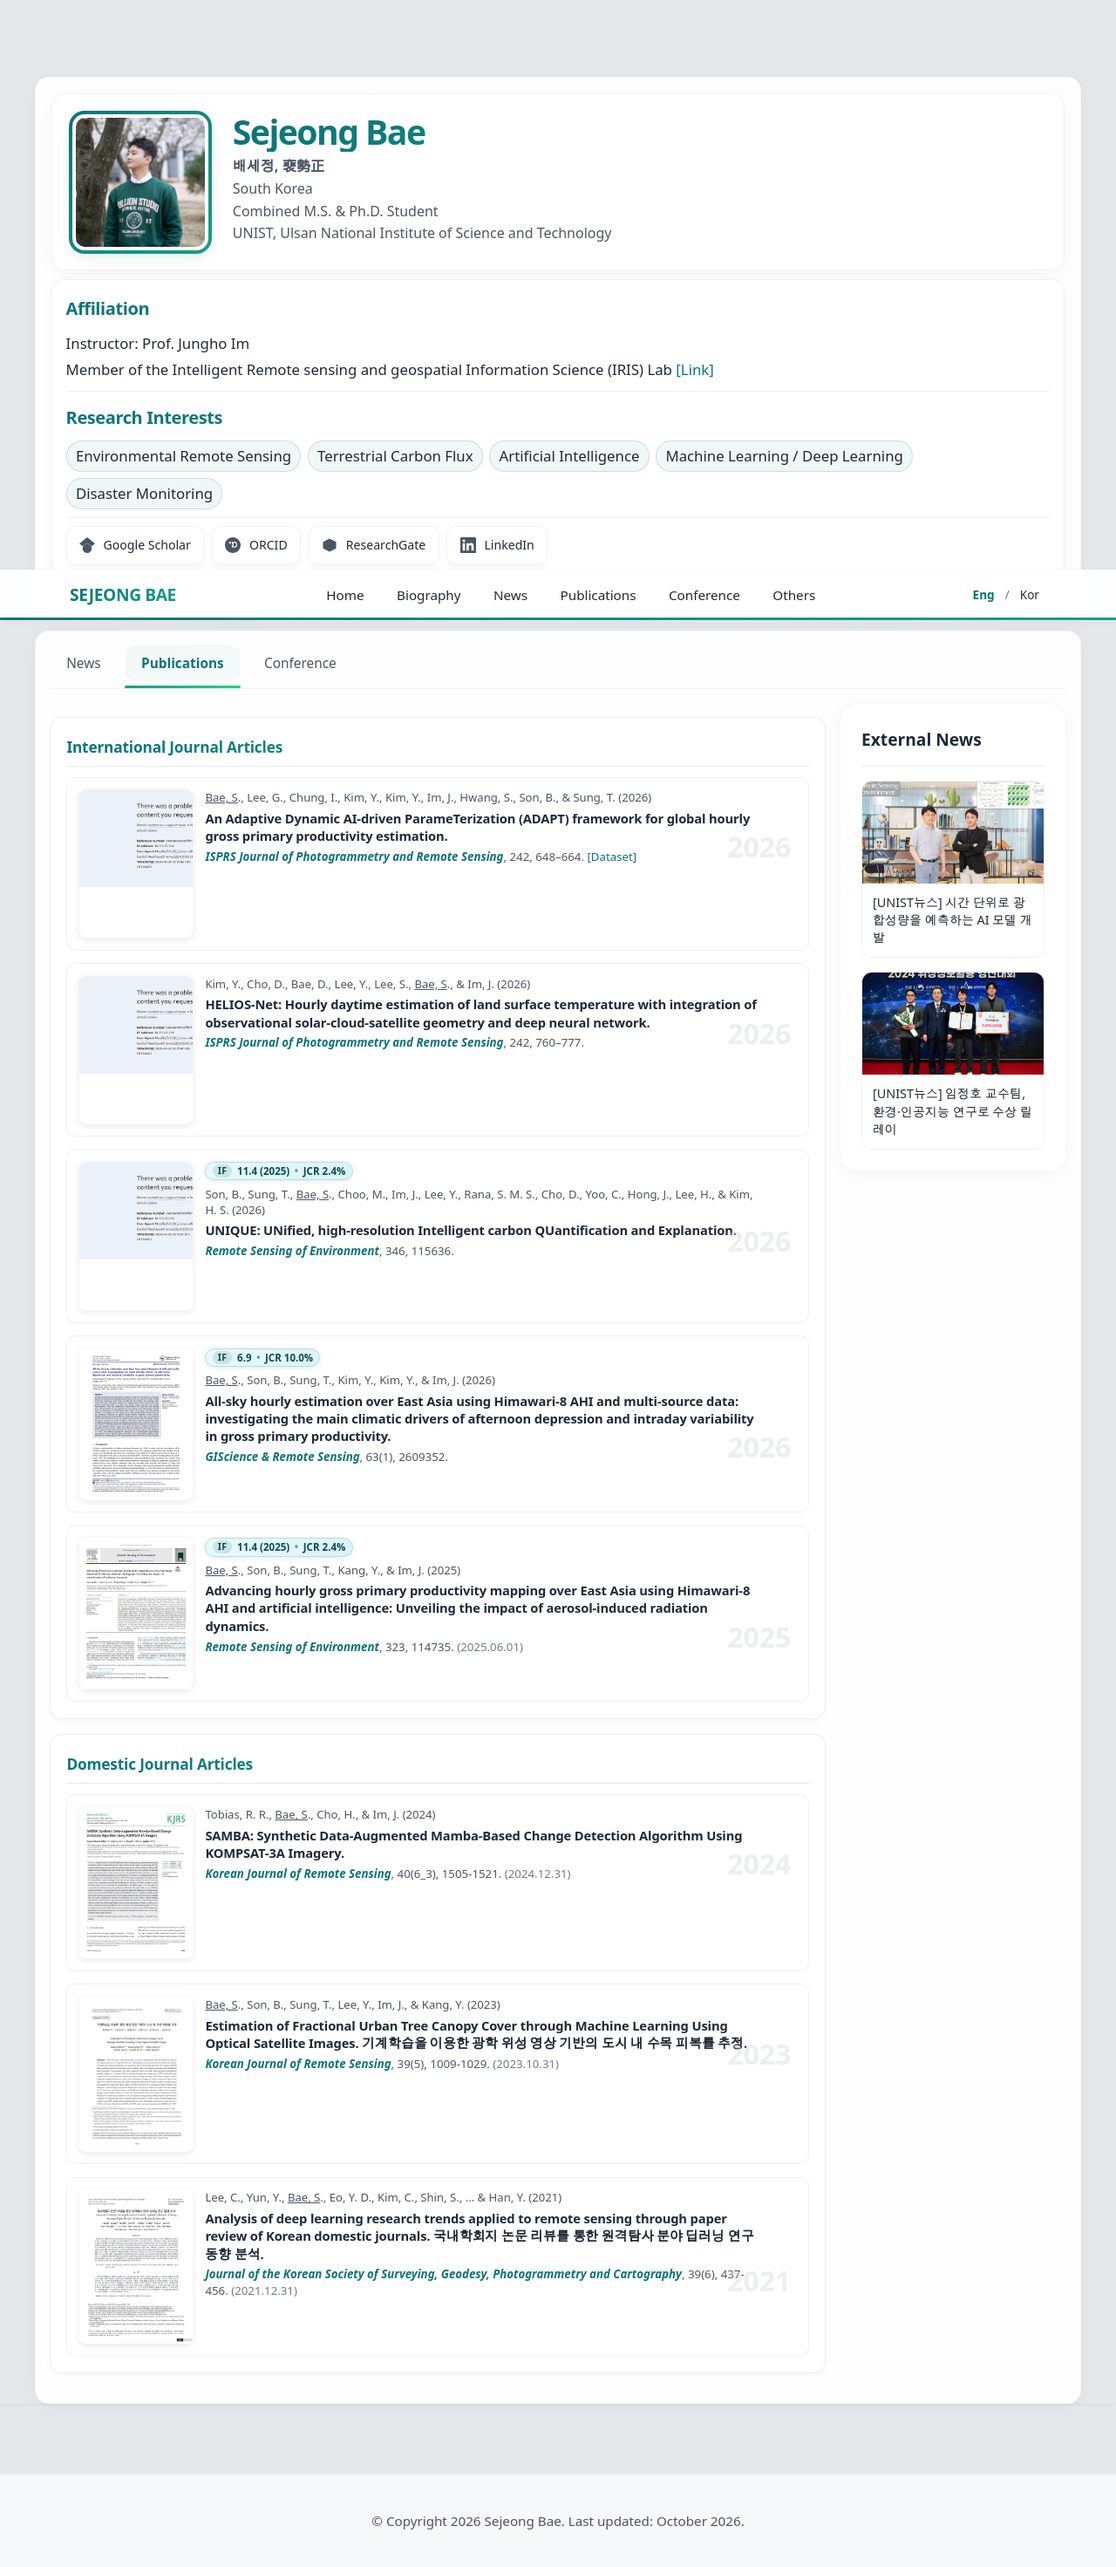
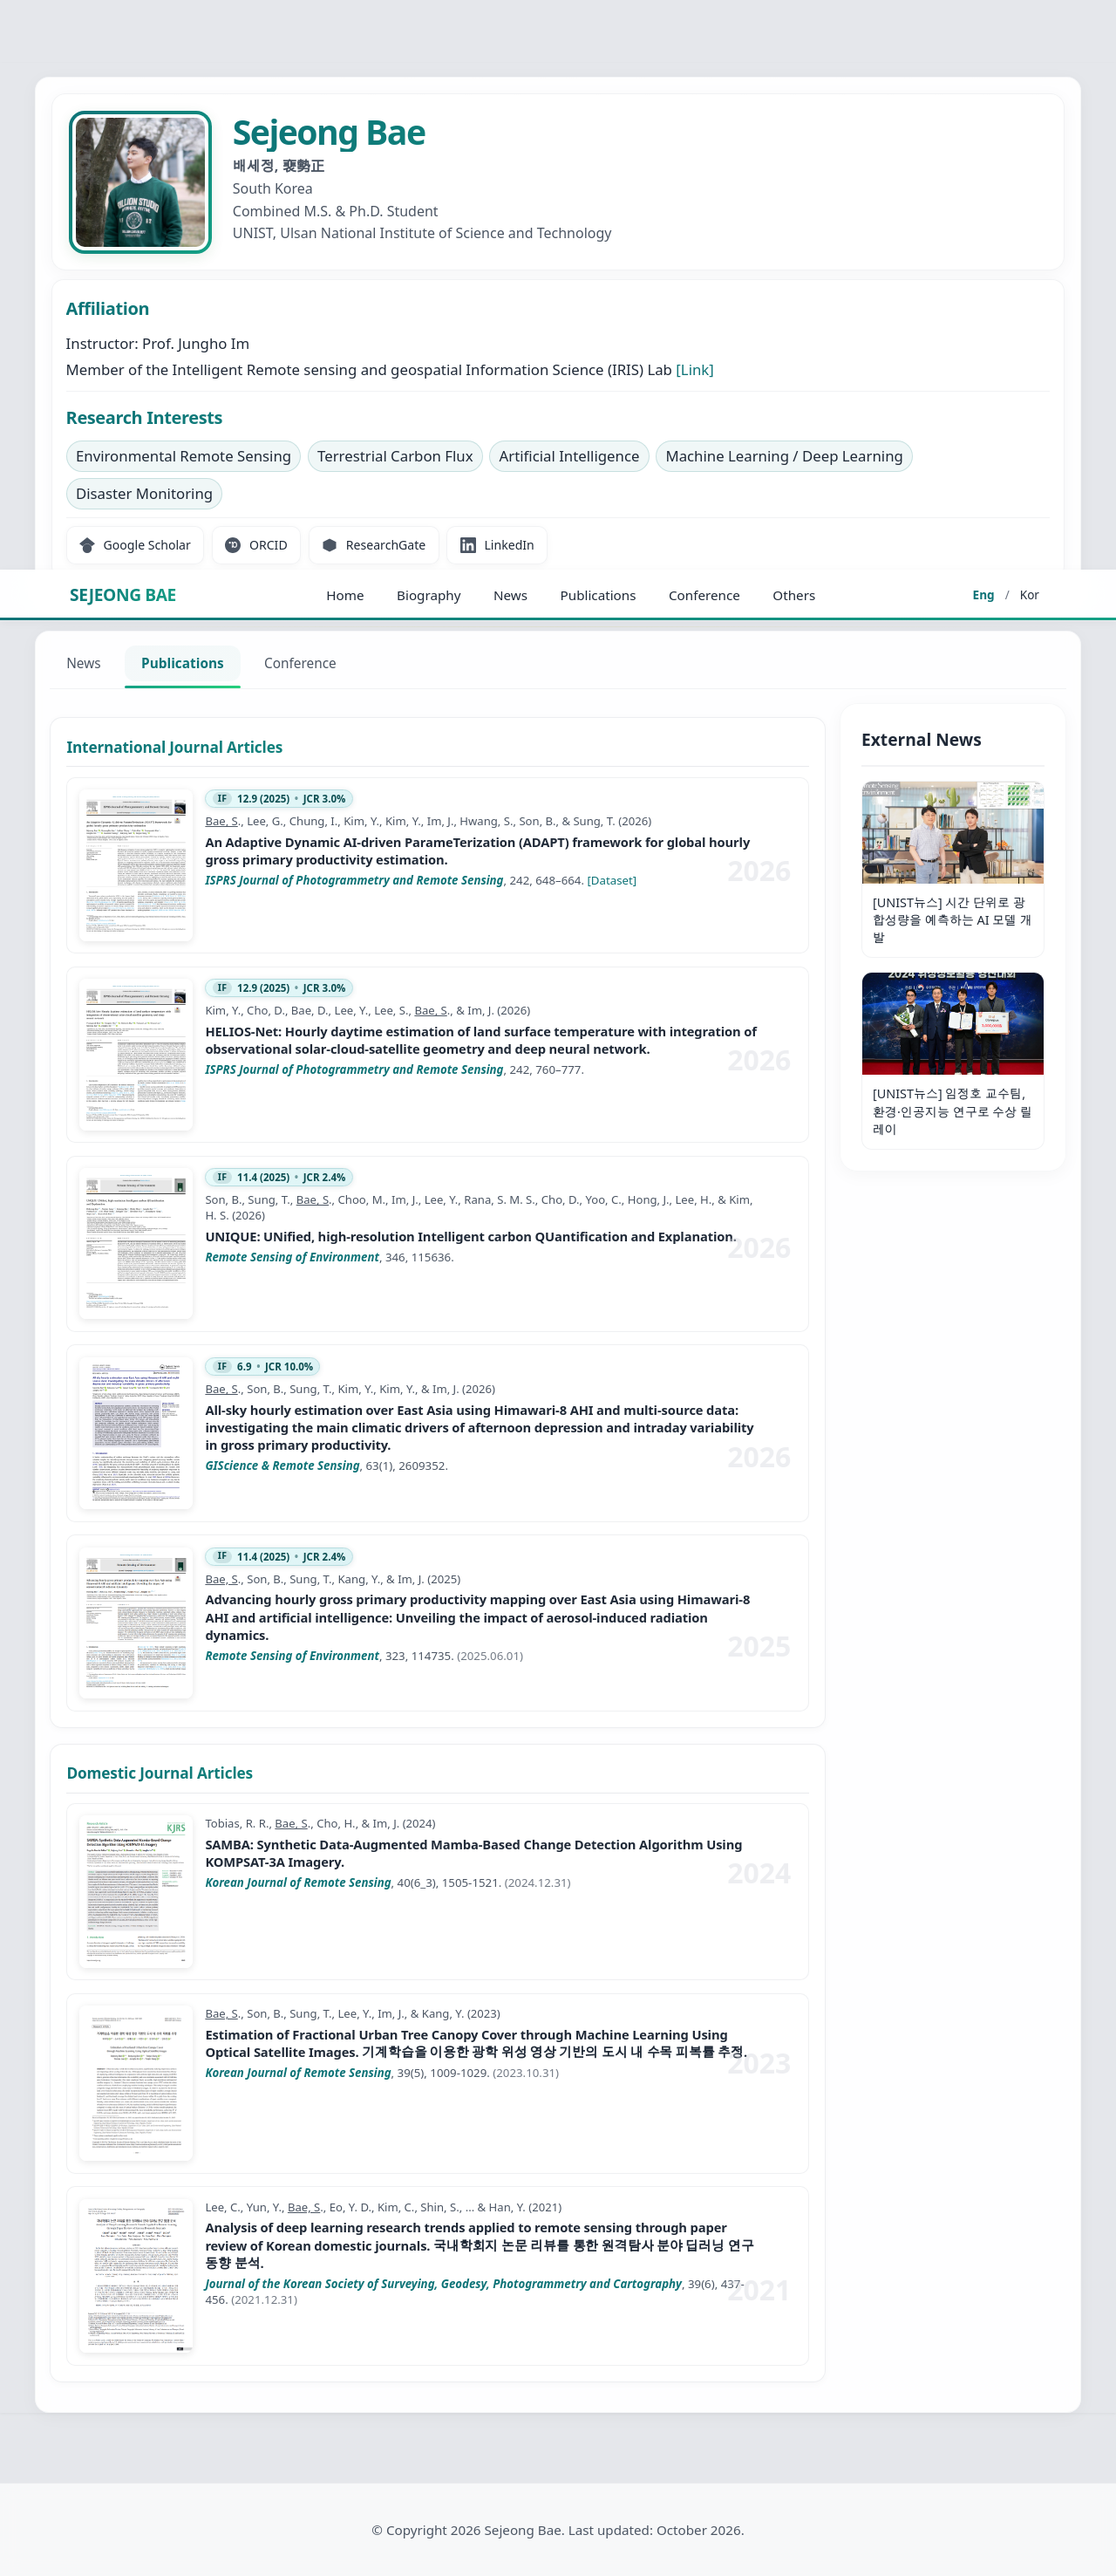
Unify publication news thumbnails; add ISPRS JPRS IF/JCR badges
- Point ADAPT/HELIOS/UNIQUE news items at first-page paper images
- Add IF 12.9 (2025) and JCR 3.0% badges on ADAPT and HELIOS-Net cards
- Remove unused adapt_gpp_flowchart asset and import mapping

diff --git a/data/site-data.js b/data/site-data.js
@@ -38,6 +38,8 @@ const SITE_DATA = {
           'An Adaptive Dynamic AI-driven ParameTerization (ADAPT) framework for global hourly gross primary productivity estimation.',
         venueHtml:
           '<em>ISPRS Journal of Photogrammetry and Remote Sensing</em>, 242, 648–664. <a href="https://doi.org/10.57760/sciencedb.37163" target="_blank" rel="noopener noreferrer" class="publication-inline-link" onclick="event.stopPropagation();">[Dataset]</a>',
+        metricsHtml:
+          '<span class="status-badge metric-badge"><span class="metric-label">IF</span>12.9 (2025) <span class="metric-dot">•</span> JCR 3.0%</span>',
       },
       {
         id: 'pub-helios-isprs-2026',
@@ -50,6 +52,8 @@ const SITE_DATA = {
         title:
           'HELIOS-Net: Hourly daytime estimation of land surface temperature with integration of observational solar-cloud-satellite geometry and deep neural network.',
         venueHtml: '<em>ISPRS Journal of Photogrammetry and Remote Sensing</em>, 242, 760–777.',
+        metricsHtml:
+          '<span class="status-badge metric-badge"><span class="metric-label">IF</span>12.9 (2025) <span class="metric-dot">•</span> JCR 3.0%</span>',
       },
       {
         id: 'pub-unique-rse-2026',
@@ -358,7 +362,7 @@ const SITE_DATA = {
       link: 'https://doi.org/10.1016/j.isprsjprs.2026.09.024',
       linkText:
         'An Adaptive Dynamic AI-driven ParameTerization (ADAPT) framework for global hourly gross primary productivity estimation',
-      image: 'news/adapt_gpp_flowchart.png',
+      image: 'news/isprs_adapt.png',
     },
     {
       id: 'news-helios-published',
@@ -370,6 +374,7 @@ const SITE_DATA = {
       link: 'https://doi.org/10.1016/j.isprsjprs.2026.09.028',
       linkText:
         'HELIOS-Net: Hourly daytime estimation of land surface temperature with integration of observational solar-cloud-satellite geometry and deep neural network',
+      image: 'news/isprs_helios.png',
     },
     {
       id: 'news-unique-published',
@@ -380,6 +385,7 @@ const SITE_DATA = {
         "새 논문 '**UNIQUE: UNified, high-resolution Intelligent carbon QUantification and Explanation**'이 **Remote Sensing of Environment**, 346, 115636에 게재되었습니다.",
       link: 'https://doi.org/10.1016/j.rse.2026.115636',
       linkText: 'UNIQUE: UNified, high-resolution Intelligent carbon QUantification and Explanation',
+      image: 'news/rse_unique.png',
     },
     {
       id: 'news-igarss2026-poster',

diff --git a/scripts/generate-news-placeholders.py b/scripts/generate-news-placeholders.py
@@ -30,7 +30,6 @@ def placeholder(label: str, path: Path, size=(1200, 900), color=(41, 98, 255)) -
 def main() -> None:
     placeholder("ACM2026 presentation", NEWS / "acm2026.jpg")
     placeholder("IGARSS 2026 poster", NEWS / "igarss2026_poster_photo.jpg")
-    placeholder("ADAPT-GPP flowchart", NEWS / "adapt_gpp_flowchart.png", color=(22, 101, 52))
 
 
 if __name__ == "__main__":

diff --git a/scripts/import-news-photos.py b/scripts/import-news-photos.py
@@ -19,8 +19,6 @@ MAX_BYTES = 500_000
 MAPPING = {
     "igarss2026_poster_photo.jpg": "igarss2026_poster_photo.jpg",
     "acm2026_photo.png": "acm2026.jpg",
-    "adapt_gpp_flowchart.png": "adapt_gpp_flowchart.png",
-    "adapt_gpp_cover.png": "adapt_gpp_cover.png",
 }
 
 
